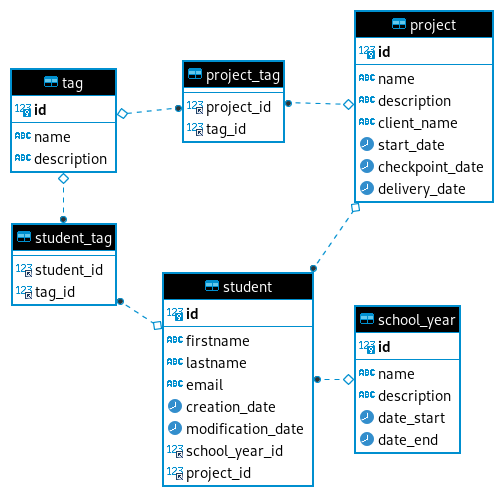
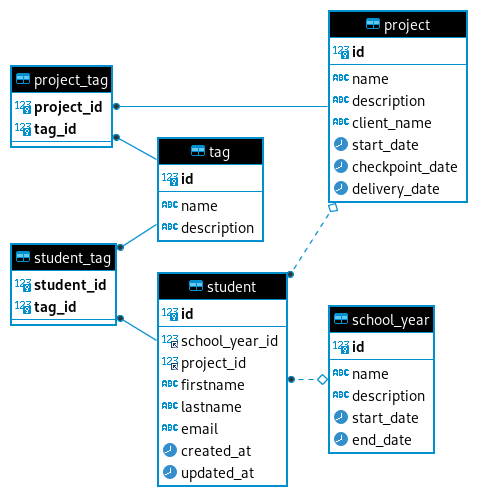
Amélioration

diff --git a/README.md b/README.md
@@ -22,28 +22,28 @@ Voici le schéma de la BDD :
 student :
 
 - id : int, unsigned, primary key, auto-increment
-- firstname : varchar, 255
-- lastname : varchar, 255
-- email : varchar, 255
-- creation_date : timestamp, default value : current_timestamp
-- modification_date : timestamp, default value : current_timestamp, on update : current_timestamp
-- school_year_id : int, unsigned, nullable, foreign key : school_year.id
+- firstname : varchar, 190
+- lastname : varchar, 190
+- email : varchar, 190
+- created_at : datetime
+- updated_at : datetime
+- school_year_id : int, unsigned, foreign key : school_year.id
 - project_id : int, unsigned, nullable, foreign key : project.id
 
 school_year :
 
 - id : int, unsigned, primary key, auto-increment
-- name : varchar, 255
+- name : varchar, 190
 - description : text, nullable
 - start_date : date, nullable
-- start_end : date, nullable
+- end_date : date, nullable
 
 project :
 
 - id : int, unsigned, primary key, auto-increment
-- name : varchar, 255
+- name : varchar, 190
 - description : text, nullable
-- client_name : varchar, 255
+- client_name : varchar, 190
 - start_date : date, nullable
 - checkpoint_date : date, nullable
 - delivery_date : date, nullable
@@ -51,7 +51,7 @@ project :
 tag :
 
 - id : int, unsigned, primary key, auto-increment
-- name : varchar, 255
+- name : varchar, 190
 - description : text
 
 project_tag :
